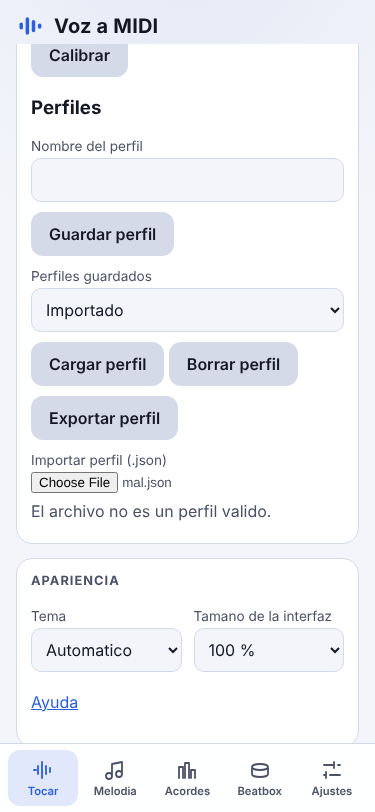
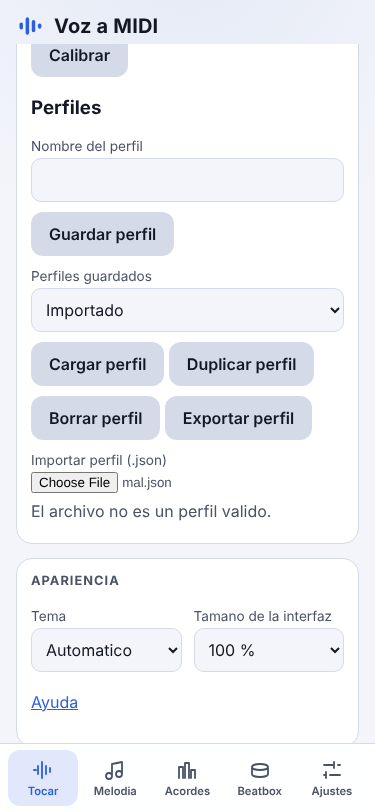
docs: progreso de duplicar perfiles y persistencia
Claude-Session: https://claude.ai/code/session_015rvETTP14BPJbAVz1jYApA

Changed region(s): [[0.1467, 0.4002, 0.8507, 0.5542]]

diff --git a/docs/PROGRESS.md b/docs/PROGRESS.md
@@ -10,6 +10,14 @@ Formato por sesion (la mas reciente arriba, maximo 8 lineas):
 - Siguiente:
 - Bloqueos:
 
+## 2026-11-19 09:15
+- Tarea: backlog sin `[ ]`; se anade y hace en Fase 4 "Perfiles: duplicar y pedir persistencia" (SPEC.md 7, faltaba).
+- Hecho: src/profiles.ts con `uniqueName` (sufijo "(copia N)" sin pasar de 40), `duplicateProfile` (copia profunda) y `requestPersistence`; boton "Duplicar perfil" (usa el nombre escrito o el del perfil elegido) en src/ui/setup.ts; se pide `navigator.storage.persist()` al guardar, duplicar e importar. 3 tests nuevos y e2e de perfiles ampliado.
+- Verificacion: build, test (175), lint y e2e (26) ok; un fallo aislado en triggers.spec.ts no se repitio (2 reejecuciones ok). Captura `artifacts/perfiles.png`.
+- Preview Vercel: produccion no comprobada (red, proxy 403).
+- Siguiente: no quedan tareas `[ ]`; probar en movil real (iOS y Android) y afinar umbrales con voz real.
+- Bloqueos: ninguno. Se trabajo en claude/dev segun la tarea programada.
+
 ## 2026-11-18 09:15
 - Tarea: Fase 5 "AUDIT: MelodyRecorder descarta los silencios".
 - Hecho: `MelodyNote.note` admite `null` (silencio). MelodyRecorder guarda los huecos entre notas como silencios (no el de antes de la primera ni despues de la ultima); chordForSegment no los cuenta en el encaje, un tramo solo de silencio repite el acorde anterior y suggestChords recorta silencios iniciales y finales. 6 tests nuevos.
